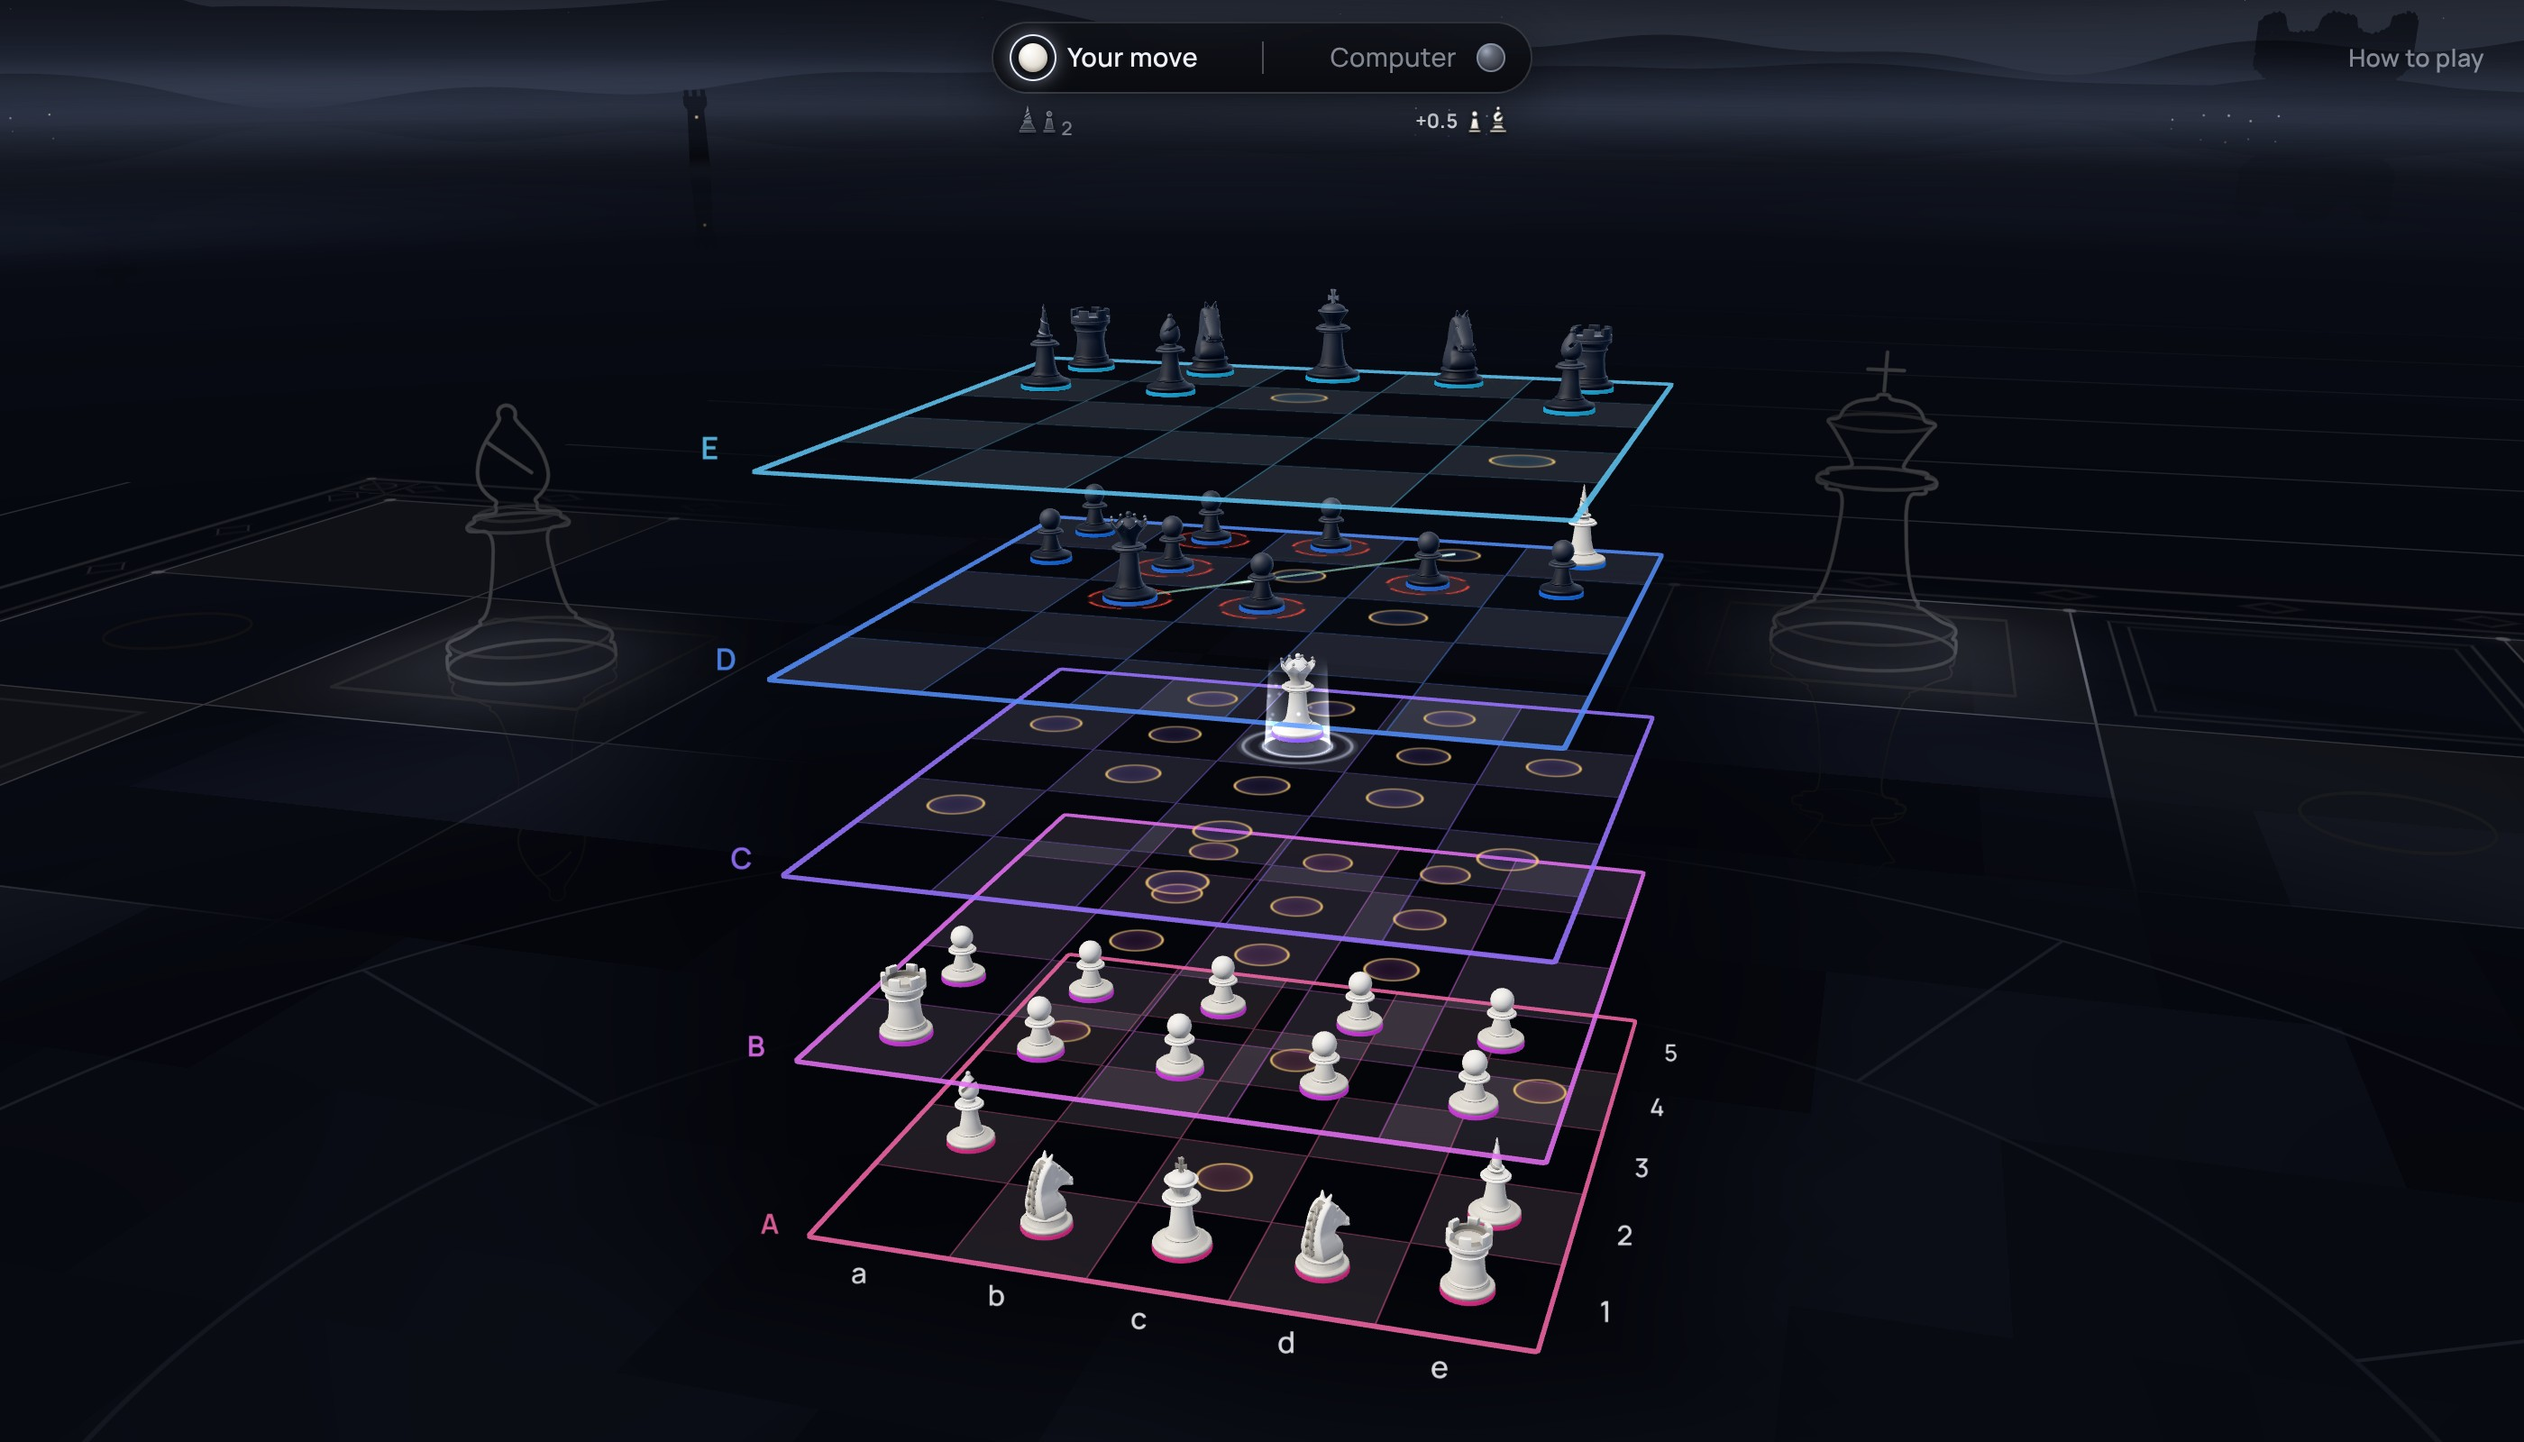
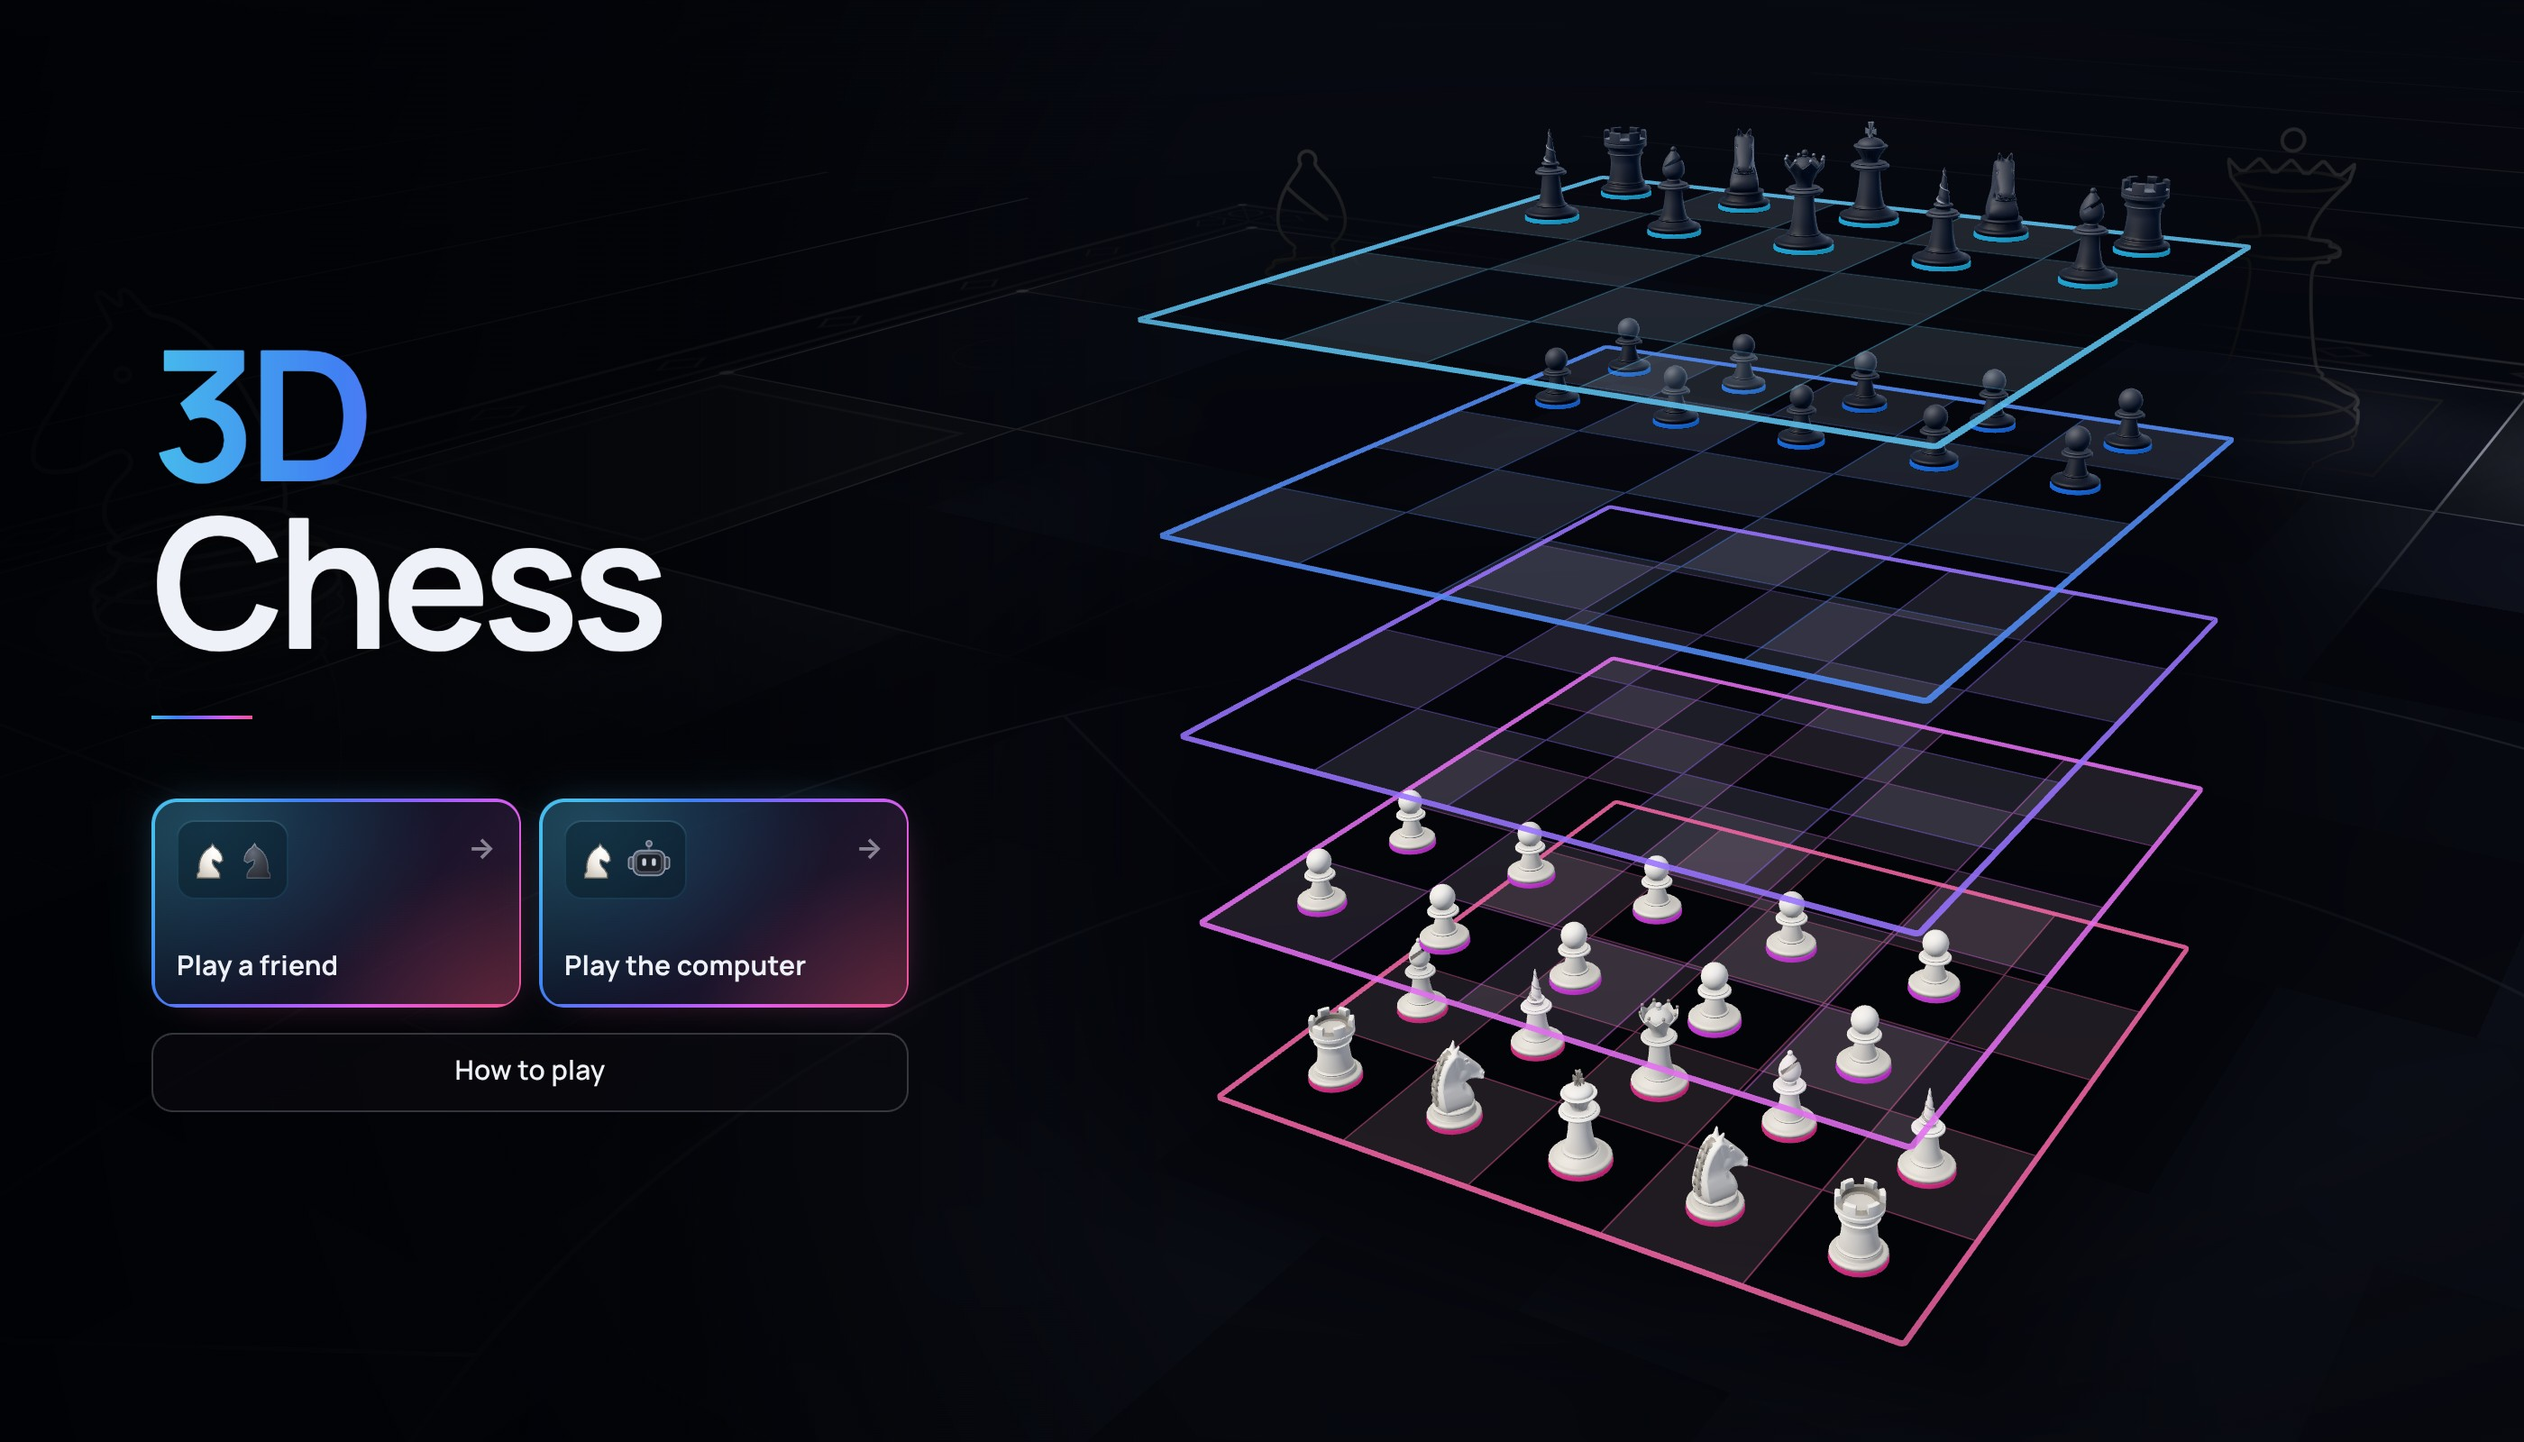
docs: the README's picture is the start page, before the first move (#83)
scripts/readme-image.mjs now shoots the home page (/) instead of a game against the computer mid-play. The page runs on a clock that stands still unless stepped, so the demo stays on the opening position and the camera at the angle the page opens on, however slowly software rendering draws. It draws frames until the picture stops changing, then saves it.

docs/preview.jpg is re-rendered from it; README.md's alt text and CLAUDE.md's line for the script describe the new picture.

Verified by running the script and reading the output; prettier and eslint pass; CI green.

diff --git a/CLAUDE.md b/CLAUDE.md
@@ -15,7 +15,7 @@ Client (run from `client/`):
 - `node scripts/showcase.mjs --lobby [--side white|black|random] [--level easy|medium|hard] [--reduced] --out <dir>` — records the way into a game against the computer, frame by frame on the virtual clock (the side, the level, the computer's arrival, the handover, the game's entrance), with a timed contact sheet; needs only Vite running. Use it after any change to the lobby's beats, and read the sheet for black or repeated frames and beats that overlap.
 - `node scripts/pieces.mjs [--piece <type>] --out <dir>` — saves the piece gallery (`pieces.html`, dev only) as a PNG: every piece from the side, three-quarters and above, light and dark; needs only Vite running.
 - `node scripts/sculptures.mjs --target <square> [--orbit <deg>] --out <dir>` — the garden's neon sculptures up close through the dev-only viewer (`sculptures.html`): a sheet from several sides, or a turn round one; needs only Vite running.
-- `node scripts/readme-image.mjs` — re-renders `docs/preview.jpg`, the README's picture (a game against the computer, mid-game, the queen picked up); starts its own Vite, no backend. Rerun and commit it after a visible change to the board or the HUD.
+- `node scripts/readme-image.mjs` — re-renders `docs/preview.jpg`, the README's picture (the start page, the pieces on their starting squares before the demo's first move); starts its own Vite, no backend. Rerun and commit it after a visible change to the board or the start page.
 - `npm run bake:pieces` — rewrites `src/three/pieces/knight.medium.ts` and `src/three/scene/occlusion.medium.ts`, the medium knight's meshes and the medium set's occlusion, precomputed; run it after changing any piece's shape or the occlusion bake (`knightData.test.ts` / `occlusionData.test.ts` fail while they are stale). `golden.test.ts` pins the piece set's geometry by hash: a change meant only to be faster must leave it alone.
 - `node bench/run.mjs [--quick] [--only client,server,browser] [--compare <dir>] [--repeat N] [--files engine --grep <case>]` (repo root) — the benchmark suite, each tier in turn, into `bench/RESULTS.md` (ARCHITECTURE.md "Benchmarks"). For a perf change use `--base <ref>` (interleaved A/B against a worktree of that commit, report in `bench/out/AB.md`; narrow with `--only client --files engine --grep <case>`): comparing against a saved run (`--compare`) is fooled when the shared VM's speed drifts between the runs, which A/A tests showed it does by 50–100% over minutes. The browser tier builds and serves the client and starts its own backend. Benchmark runs contend with anything else on the machine: run nothing else meanwhile. If the client tier stops on a fixture check, the engine's rules changed (run `npm run test`); `EXPECTED` in `client/bench/fixtures.ts` is only updated when a fixture changes on purpose.
 - `npx prettier --write <file>` — `.prettierrc` is the style (single quotes, trailing commas, width 100). `npm run lint` runs `prettier --check .` after ESLint, so CI fails on unformatted files; `.prettierignore` skips the generated `src/types/schema.ts`.

diff --git a/README.md b/README.md
@@ -2,7 +2,7 @@
 
 Chess in three dimensions, on a 5×5×5 board.
 
-[![A game of 3D chess against the computer: White's queen picked up in the middle of a five-level glass tower, her moves ringed in gold](docs/preview.jpg)](https://3dchess.club)
+[![The 3D Chess home page: a five-level glass tower with every piece on its starting square, beside the ways to play](docs/preview.jpg)](https://3dchess.club)
 
 **[Play at 3dchess.club →](https://3dchess.club)**
 
